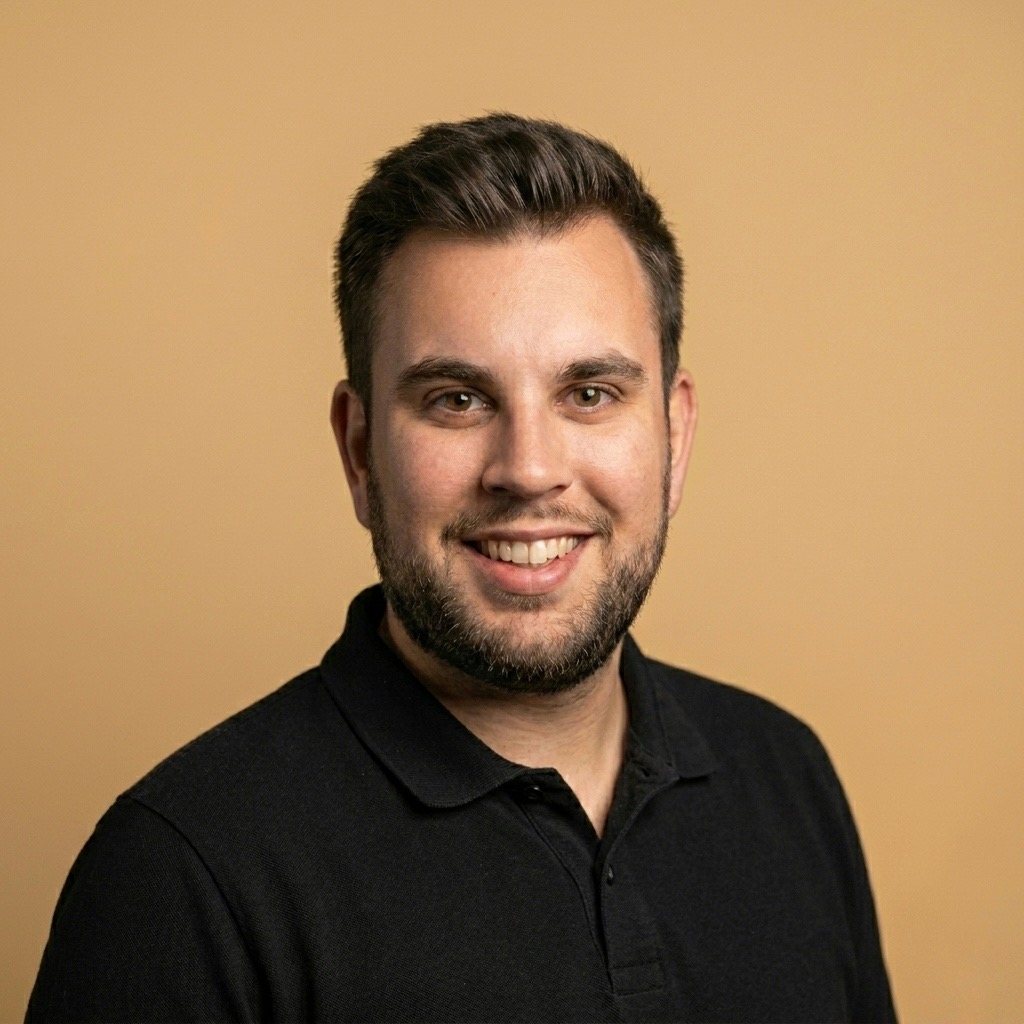
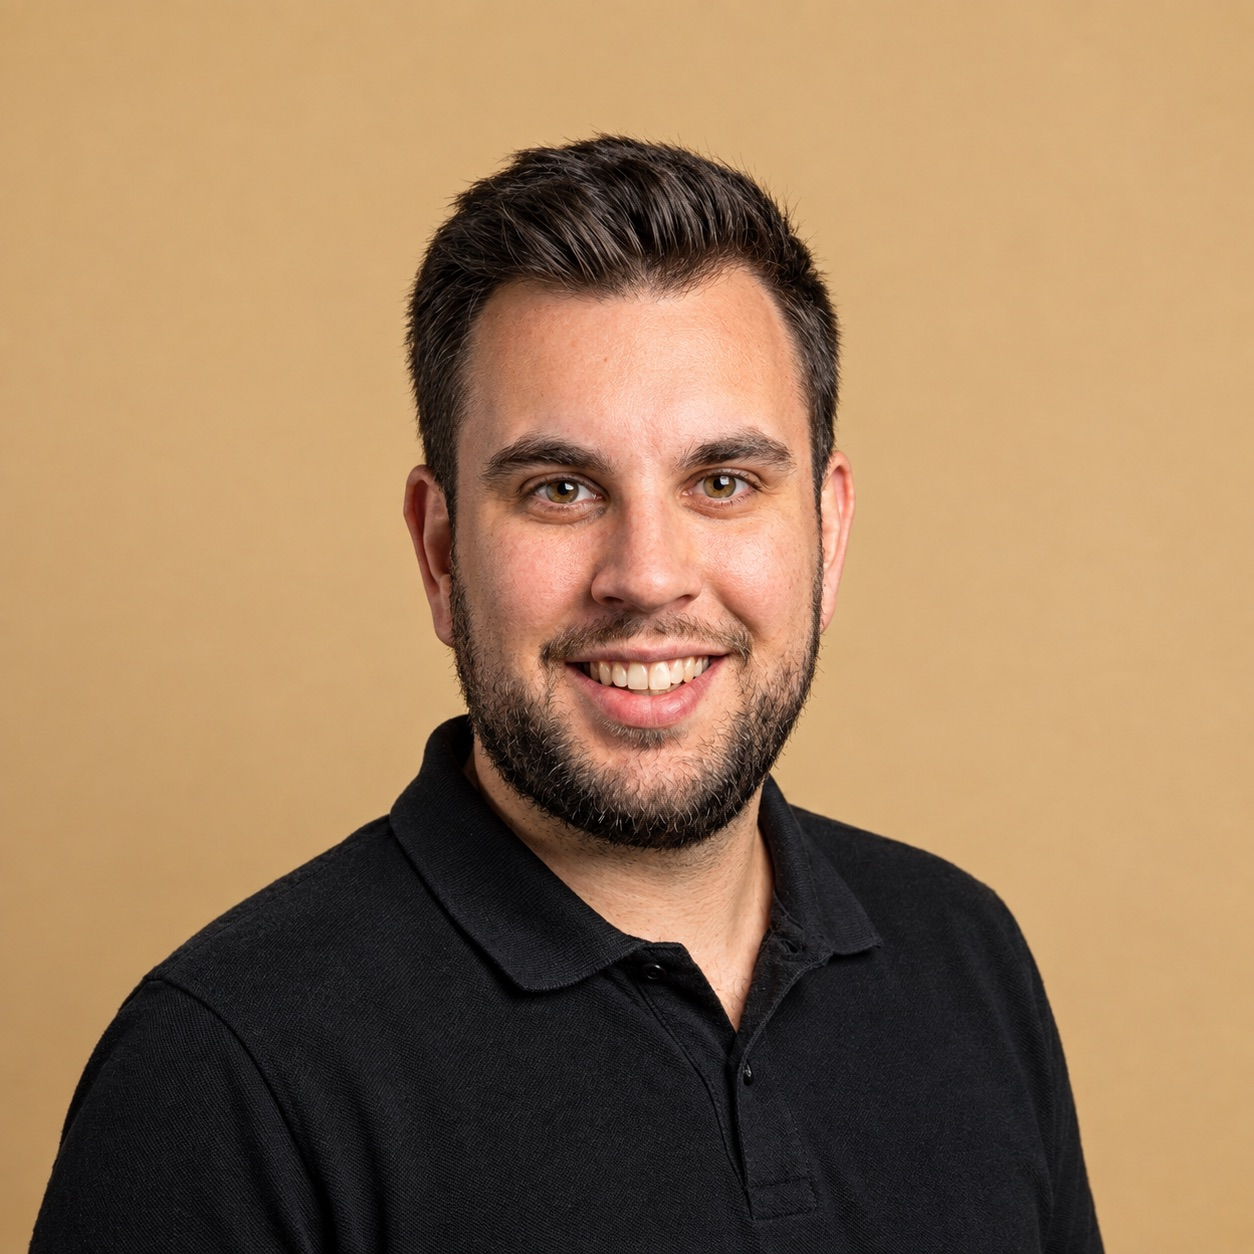
chore(assets): 🔧 update profile photo, add an alternate version

diff --git a/README.md b/README.md
@@ -222,6 +222,6 @@ Chaque commit bump automatiquement la version patch du `package.json` et ajoute 
 
 <!-- releases:start -->
 
-![v1.1.83](https://img.shields.io/badge/v1.1.83-2026--09--16-F97316)
+![v1.1.84](https://img.shields.io/badge/v1.1.84-2026--09--16-F97316)
 
 <!-- releases:end -->
